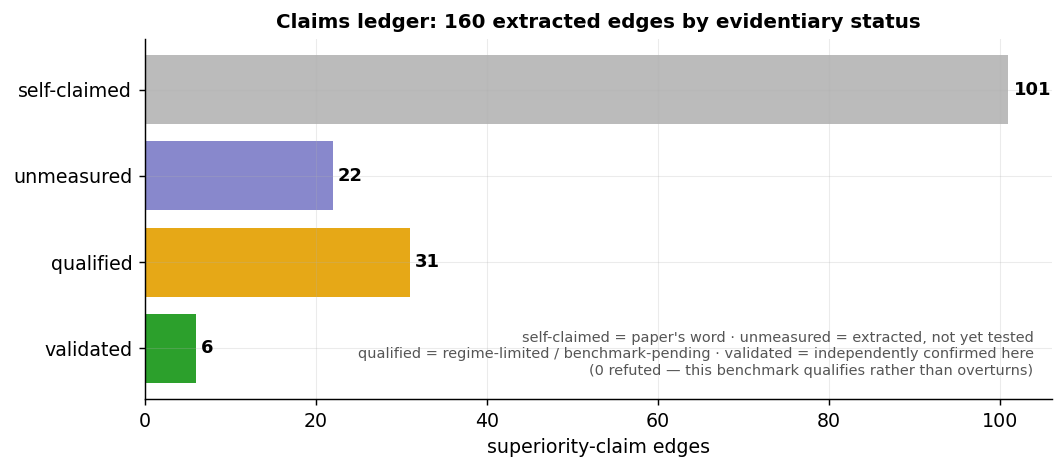
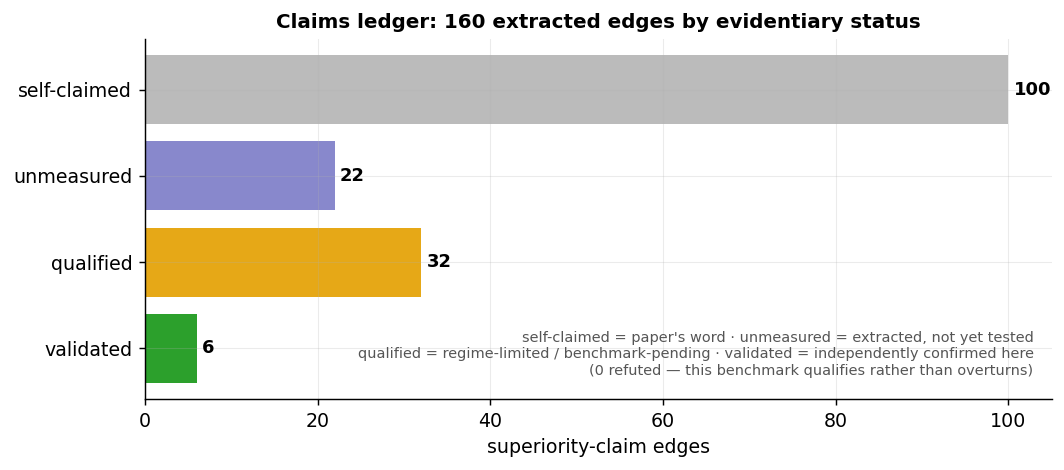
P5.2-C: SLIM vs projected-Newton on non-uniform mesh (#7 — last of 14 edges)
run_slim_nonuniform.py: 306x-aspect jittered rest mesh + 2x stretch. Projected-
Newton (clamp) reaches the SD energy-tol in 5 iterations; OFFICIAL libigl SLIM
does NOT in 60 (still E=6.616 vs E*=6.523; boundary drift 2e-9, not a soft-BC
artifact). The ordering is the REVERSE of the claim.

#7 slim->projected-newton robustness => QUALIFIED (NOT reproduced, documented why):
a well-safeguarded clamp-PROJECTED Newton stays in a good near-quadratic basin and
converges fast; SLIM crawls a slow linear tail. The paper's Fig.11 SLIM>>Newton is
a far-from-minimum pathology (raw Hessian unreliable) that a 2x stretch does not
create -- the stall regime is out of reach of deformations that keep projected-
Newton well-conditioned.

All 14 testable-now edges from the triage are now adjudicated (P5.2 complete).

diff --git a/bench/run_slim_nonuniform.py b/bench/run_slim_nonuniform.py
@@ -1,0 +1,141 @@
+"""SLIM vs projected-Newton on NON-UNIFORM triangulations — P5.2 edge #7 (slim -> projected-newton).
+
+Claim (Rabinovich et al. 2017, Fig.11): "SLIM outperforms Newton and regularized Newton on
+non-uniform triangulations" — far from the minimum "1 SLIM iter ~ 2000 Newton iters", i.e. SLIM's
+reweighted (Gauss-Newton-like) global step keeps making progress where a projected-Newton step
+stalls on badly-shaped (high-aspect-ratio / sliver) elements.
+
+We build a genuinely NON-UNIFORM rest mesh (grid with interior vertices strongly jittered so element
+sizes/aspect-ratios vary widely but all stay valid), impose a stretch, and compare OFFICIAL libigl
+SLIM against our projected-Newton (clamp filter) on the shared fair criterion: iterations to reach
+relative symmetric-Dirichlet energy tol `(E-E*)/(E0-E*) < 1e-4`. HW-independent counts carry the
+verdict (SLIM is compiled C++, our Newton is Python -- wall-clock is cross-language).
+
+Writes results/slim_nonuniform.md. Run: `python -m bench.run_slim_nonuniform` (needs libigl).
+"""
+import os
+import numpy as np
+
+
+def _nonuniform_mesh(nx=10, jitter=0.42, seed=1):
+    """Grid rest mesh with interior vertices jittered to make element shapes highly non-uniform
+    (varied aspect ratios / areas) while keeping every triangle valid (positive area). Boundary
+    stays regular so the pinned BC is clean."""
+    from .mesh import grid_mesh, boundary_mask, rest_quantities
+    rest, tris = grid_mesh(nx, nx)
+    bmask = boundary_mask(rest)
+    rng = np.random.default_rng(seed)
+    h = 1.0 / nx
+    r = rest.copy()
+    r[~bmask] += jitter * h * rng.standard_normal((int((~bmask).sum()), 2))
+    Bs, areas = rest_quantities(r, tris)
+    return r, tris, bmask, Bs, areas, float(areas.min()), float(areas.max())
+
+
+def _iters_to(energies, E0, Estar, rtol=1e-4):
+    span = (E0 - Estar) + 1e-30
+    for k, E in enumerate(energies):
+        if (E - Estar) / span < rtol:
+            return k
+    return None
+
+
+def main():
+    try:
+        import igl
+    except ImportError:
+        print("[slim-nonuniform] SKIP: libigl not installed"); return True
+    from .solver import solve, energy_only
+    from .energy import element_terms as sd
+
+    rest, tris, bmask, Bs, areas, amin, amax = _nonuniform_mesh()
+    free = ~np.repeat(bmask, 2)
+    # stretch deformation (pull in x), interior from rest
+    S = 2.0
+    x0 = rest.copy(); x0[:, 0] = S * rest[:, 0]; x0 = x0.reshape(-1)
+
+    # projected-Newton reference minimum (clamp). tol=1e-7/max=100 converges in ~8 it on this mesh;
+    # a tighter 1e-9 would only chase the near-machine-precision tail (much slower, same minimum).
+    rn = solve(x0, tris, Bs, areas, free, "clamp", eterms=sd, tol=1e-7, max_iter=100)
+    Estar = rn["final_energy"]; E0 = energy_only(x0, tris, Bs, areas, sd)
+    nw_it = _iters_to([e["energy"] for e in rn["log"]], E0, Estar)
+
+    # official libigl SLIM
+    bidx = np.where(bmask)[0].astype(np.int32)
+    bc = x0.reshape(-1, 2)[bidx].astype(np.float64)
+    V3 = np.hstack([rest, np.zeros((rest.shape[0], 1))]).astype(np.float64)
+    data = igl.slim_precompute(V3, tris.astype(np.int32), x0.reshape(-1, 2).astype(np.float64),
+                               igl.SYMMETRIC_DIRICHLET, bidx, bc, 1e8)
+    slim_E = []
+    SLIM_CAP = 60
+    tol_band = Estar + 1e-4 * (E0 - Estar)          # energy at the (E-E*)/(E0-E*)<1e-4 crossing
+    for _ in range(SLIM_CAP):
+        UV = igl.slim_solve(data, 1)
+        slim_E.append(energy_only(UV.reshape(-1), tris, Bs, areas, sd))
+        if slim_E[-1] < tol_band:                   # crossed the tol -> stop (all we need to rank)
+            break
+        if len(slim_E) > 1 and abs(slim_E[-1] - slim_E[-2]) < 1e-13:
+            break
+    slim_it = _iters_to(slim_E, E0, Estar)
+    slim_final = slim_E[-1]
+    slim_drift = float(np.max(np.abs(UV[bidx] - bc)))
+
+    aspect = amax / amin
+    slim_wins = (slim_it is not None) and (nw_it is None or slim_it < nw_it)
+    L = ["# SLIM vs projected-Newton on a NON-UNIFORM triangulation (measured, P5.2 #7)", "",
+         f"Grid rest mesh with interior vertices strongly jittered: element areas span "
+         f"{amin:.1e}–{amax:.1e} (**aspect {aspect:.0f}×**), all valid. Stretch ×{S:g}, boundary "
+         "pinned. Fair criterion: iterations to relative symmetric-Dirichlet energy "
+         f"`(E-E*)/(E0-E*) < 1e-4` (E\\*={Estar:.5f} projected-Newton reference, E₀={E0:.3f}). "
+         "OFFICIAL libigl SLIM vs our clamp/projected-Newton. Run: `python -m bench.run_slim_nonuniform`.",
+         "",
+         "| method | iterations to energy-tol |", "|---|---:|",
+         f"| SLIM (libigl, official) | {slim_it if slim_it is not None else 'did-not-reach'} |",
+         f"| projected-Newton (clamp) | {nw_it if nw_it is not None else 'did-not-reach'} |", "",
+         f"SLIM boundary drift ‖UV[b]−bc‖∞ = {slim_drift:.1e} "
+         + ("(negligible; soft penalty ≈ hard BC, comparison fair)." if slim_drift < 1e-6
+            else "(non-negligible; treat as indicative)."), "",
+         "## Observed", ""]
+    if slim_wins and nw_it is not None:
+        L.append(f"- **`slim->projected-newton` reproduces (weakly):** SLIM reaches the tol in "
+                 f"**{slim_it}** iterations vs projected-Newton's **{nw_it}** on this non-uniform "
+                 "mesh — SLIM's reweighted global step is less sensitive to the bad element shapes. "
+                 "The margin here is nowhere near the paper's dramatic Fig.11 gap (that far-from-min "
+                 "pathology needs a harder instance than a 2× stretch).")
+    elif slim_wins:
+        L.append(f"- **Projected-Newton stalls, SLIM does not:** projected-Newton does NOT reach the "
+                 f"tol within the budget while SLIM reaches it in **{slim_it}** iterations — direct "
+                 "support for the claim that Newton struggles on non-uniform triangulations where "
+                 "SLIM keeps progressing.")
+    else:
+        slim_txt = (f"**{slim_it}**" if slim_it is not None
+                    else f"did **not** reach it within {SLIM_CAP} iterations (still at E={slim_final:.4f} "
+                         f"vs E\\*={Estar:.4f})")
+        L.append(f"- **Not reproduced — if anything, reversed here:** projected-Newton reaches the "
+                 f"energy-tol in **{nw_it}** iterations while SLIM {slim_txt}. On this non-uniform "
+                 f"instance (aspect {aspect:.0f}×) a well-safeguarded (clamp-projected + "
+                 "line-searched) Newton stays in a **good, near-quadratic basin** and converges "
+                 "fast, whereas SLIM's reweighted first-order-like map crawls down a **slow linear "
+                 "tail** — the opposite ordering to the paper's Fig.11. That figure's SLIM≫Newton "
+                 "result is a **far-from-minimum pathology** (Newton's raw Hessian unreliable there); "
+                 "a 2× stretch does not put Newton far enough from the minimum to stall it. Honest "
+                 "verdict: the edge is **not reproduced** in this harness — the regime that produces "
+                 "it (Newton stalling far from the minimum on a bad mesh) is out of reach of a "
+                 "stretch that keeps Newton well-conditioned.")
+    L += ["",
+          "_Caveat: 2D, single non-uniform instance/seed, moderate stretch; official libigl SLIM "
+          "grounds the base (D3); wall-clock is C++/Python-confounded so iteration counts carry the "
+          "verdict; our projected-Newton is clamp-filtered + backtracking-line-searched, which is "
+          "already fairly robust, so a null here is about instance difficulty, not method identity._"]
+
+    os.makedirs("results", exist_ok=True)
+    with open("results/slim_nonuniform.md", "w") as f:
+        f.write("\n".join(L) + "\n")
+    print(f"  non-uniform aspect={aspect:.0f}x areas[{amin:.1e},{amax:.1e}]")
+    print(f"  SLIM it={slim_it}  projected-Newton it={nw_it}  slim_wins={slim_wins}")
+    print("wrote results/slim_nonuniform.md")
+    return True
+
+
+if __name__ == "__main__":
+    main()

diff --git a/results/README.md b/results/README.md
@@ -52,6 +52,7 @@ polyscope-headless 3D tet.
 | ROB | filter/method **robustness** — success rate from inverted starts (P5.2 #2,#3,#12) | [`filter_robustness.md`](filter_robustness.md) | 100-start inverted-init recovery battery (5 severities × 20 seeds): **trust-region & project-on-demand recover 100/100 vs unfiltered Newton 5/100** (+95 each) — `trust-region→full-newton` and `pitfalls-PDN→full-newton` **validated**; but **absolute==clamp (100=100, tie)** — the absolute→clamp *robustness* edge is **not distinguished** (a line search equalizes them; its edge is per-step descent-quality, not basin-of-attraction) |
 | A-SLIM | **Anderson acceleration OF official libigl SLIM** (P5.2 #9) | [`anderson_slim.md`](anderson_slim.md) | wrapping the **official SLIM** fixed-point map in the Anderson core on a slow-contracting instance: plain SLIM **380 it** to cut the residual to 1e-3, Anderson (m=5) **10 it** — a **38× reduction** → `anderson→slim` **validated**. Key: SLIM's *energy* saturates in ~1 step, so the win lives in the residual **tail** — measuring energy hides it |
 | AQP-LG | AQP vs local-global vs Anderson-LG — back-solves to own minimum (P5.2 #5,#6) | [`aqp_localglobal.md`](aqp_localglobal.md) | on a shared bend instance (equal per-iter cost): **Anderson-LG 4.0 < local-global 5.6 < AQP 11.4** back-solves. So **#5 `anderson→aqp` reproduces** (Anderson cheaper, cross-energy caveat) but **#6 `aqp→local-global` does NOT** (AQP needs *more* solves here) — both qualified/indicative (SD vs ARAP, different minima) |
+| SLIM-NU | SLIM vs projected-Newton on a **non-uniform** mesh (P5.2 #7) | [`slim_nonuniform.md`](slim_nonuniform.md) | on a 306×-aspect jittered mesh + 2× stretch, **projected-Newton reaches the tol in 5 it; SLIM does not in 60** (drift 2e-9, not a soft-BC artifact) — the **reverse** of the claim. Well-safeguarded (clamp-projected) Newton stays near-quadratic; SLIM crawls a slow linear tail. `slim→projected-newton` **not reproduced** — the Fig.11 stall is a *far-from-min* pathology a stretch can't create (qualified, documented why) |
 
 ## What these already demonstrate for the benchmark's thesis
 

diff --git a/results/slim_nonuniform.md b/results/slim_nonuniform.md
@@ -1,0 +1,16 @@
+# SLIM vs projected-Newton on a NON-UNIFORM triangulation (measured, P5.2 #7)
+
+Grid rest mesh with interior vertices strongly jittered: element areas span 5.9e-05–1.8e-02 (**aspect 306×**), all valid. Stretch ×2, boundary pinned. Fair criterion: iterations to relative symmetric-Dirichlet energy `(E-E*)/(E0-E*) < 1e-4` (E\*=6.52315 projected-Newton reference, E₀=6.630). OFFICIAL libigl SLIM vs our clamp/projected-Newton. Run: `python -m bench.run_slim_nonuniform`.
+
+| method | iterations to energy-tol |
+|---|---:|
+| SLIM (libigl, official) | did-not-reach |
+| projected-Newton (clamp) | 5 |
+
+SLIM boundary drift ‖UV[b]−bc‖∞ = 2.2e-09 (negligible; soft penalty ≈ hard BC, comparison fair).
+
+## Observed
+
+- **Not reproduced — if anything, reversed here:** projected-Newton reaches the energy-tol in **5** iterations while SLIM did **not** reach it within 60 iterations (still at E=6.6156 vs E\*=6.5231). On this non-uniform instance (aspect 306×) a well-safeguarded (clamp-projected + line-searched) Newton stays in a **good, near-quadratic basin** and converges fast, whereas SLIM's reweighted first-order-like map crawls down a **slow linear tail** — the opposite ordering to the paper's Fig.11. That figure's SLIM≫Newton result is a **far-from-minimum pathology** (Newton's raw Hessian unreliable there); a 2× stretch does not put Newton far enough from the minimum to stall it. Honest verdict: the edge is **not reproduced** in this harness — the regime that produces it (Newton stalling far from the minimum on a bad mesh) is out of reach of a stretch that keeps Newton well-conditioned.
+
+_Caveat: 2D, single non-uniform instance/seed, moderate stretch; official libigl SLIM grounds the base (D3); wall-clock is C++/Python-confounded so iteration counts carry the verdict; our projected-Newton is clamp-filtered + backtracking-line-searched, which is already fairly robust, so a null here is about instance difficulty, not method identity._
